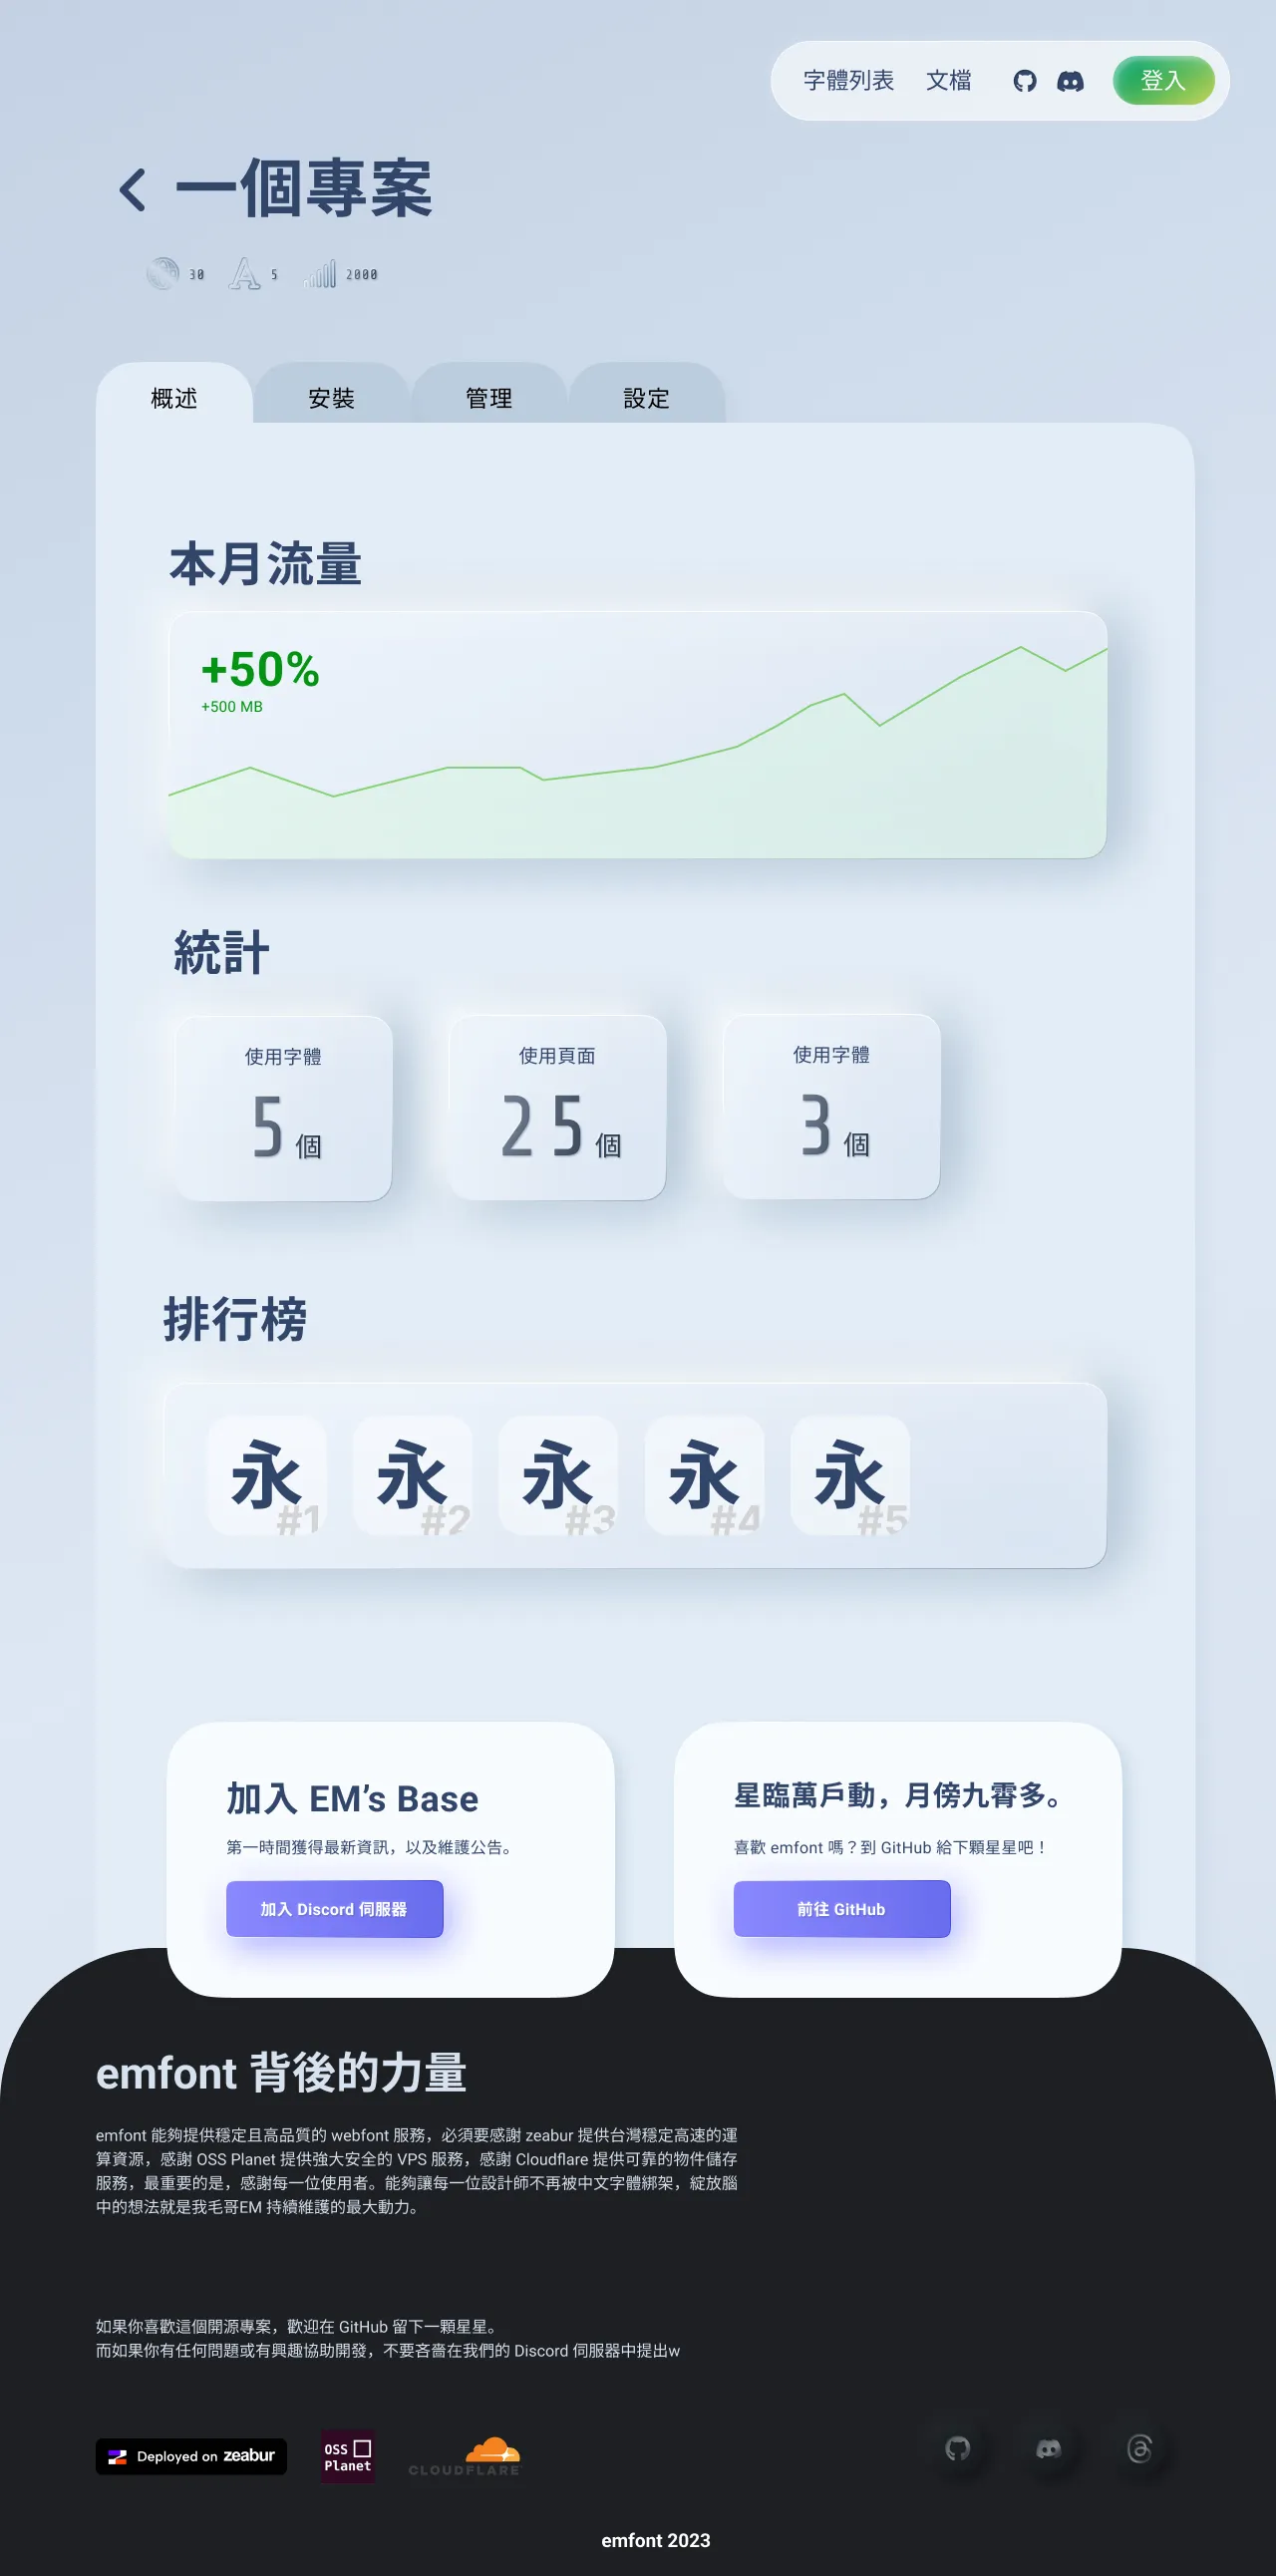
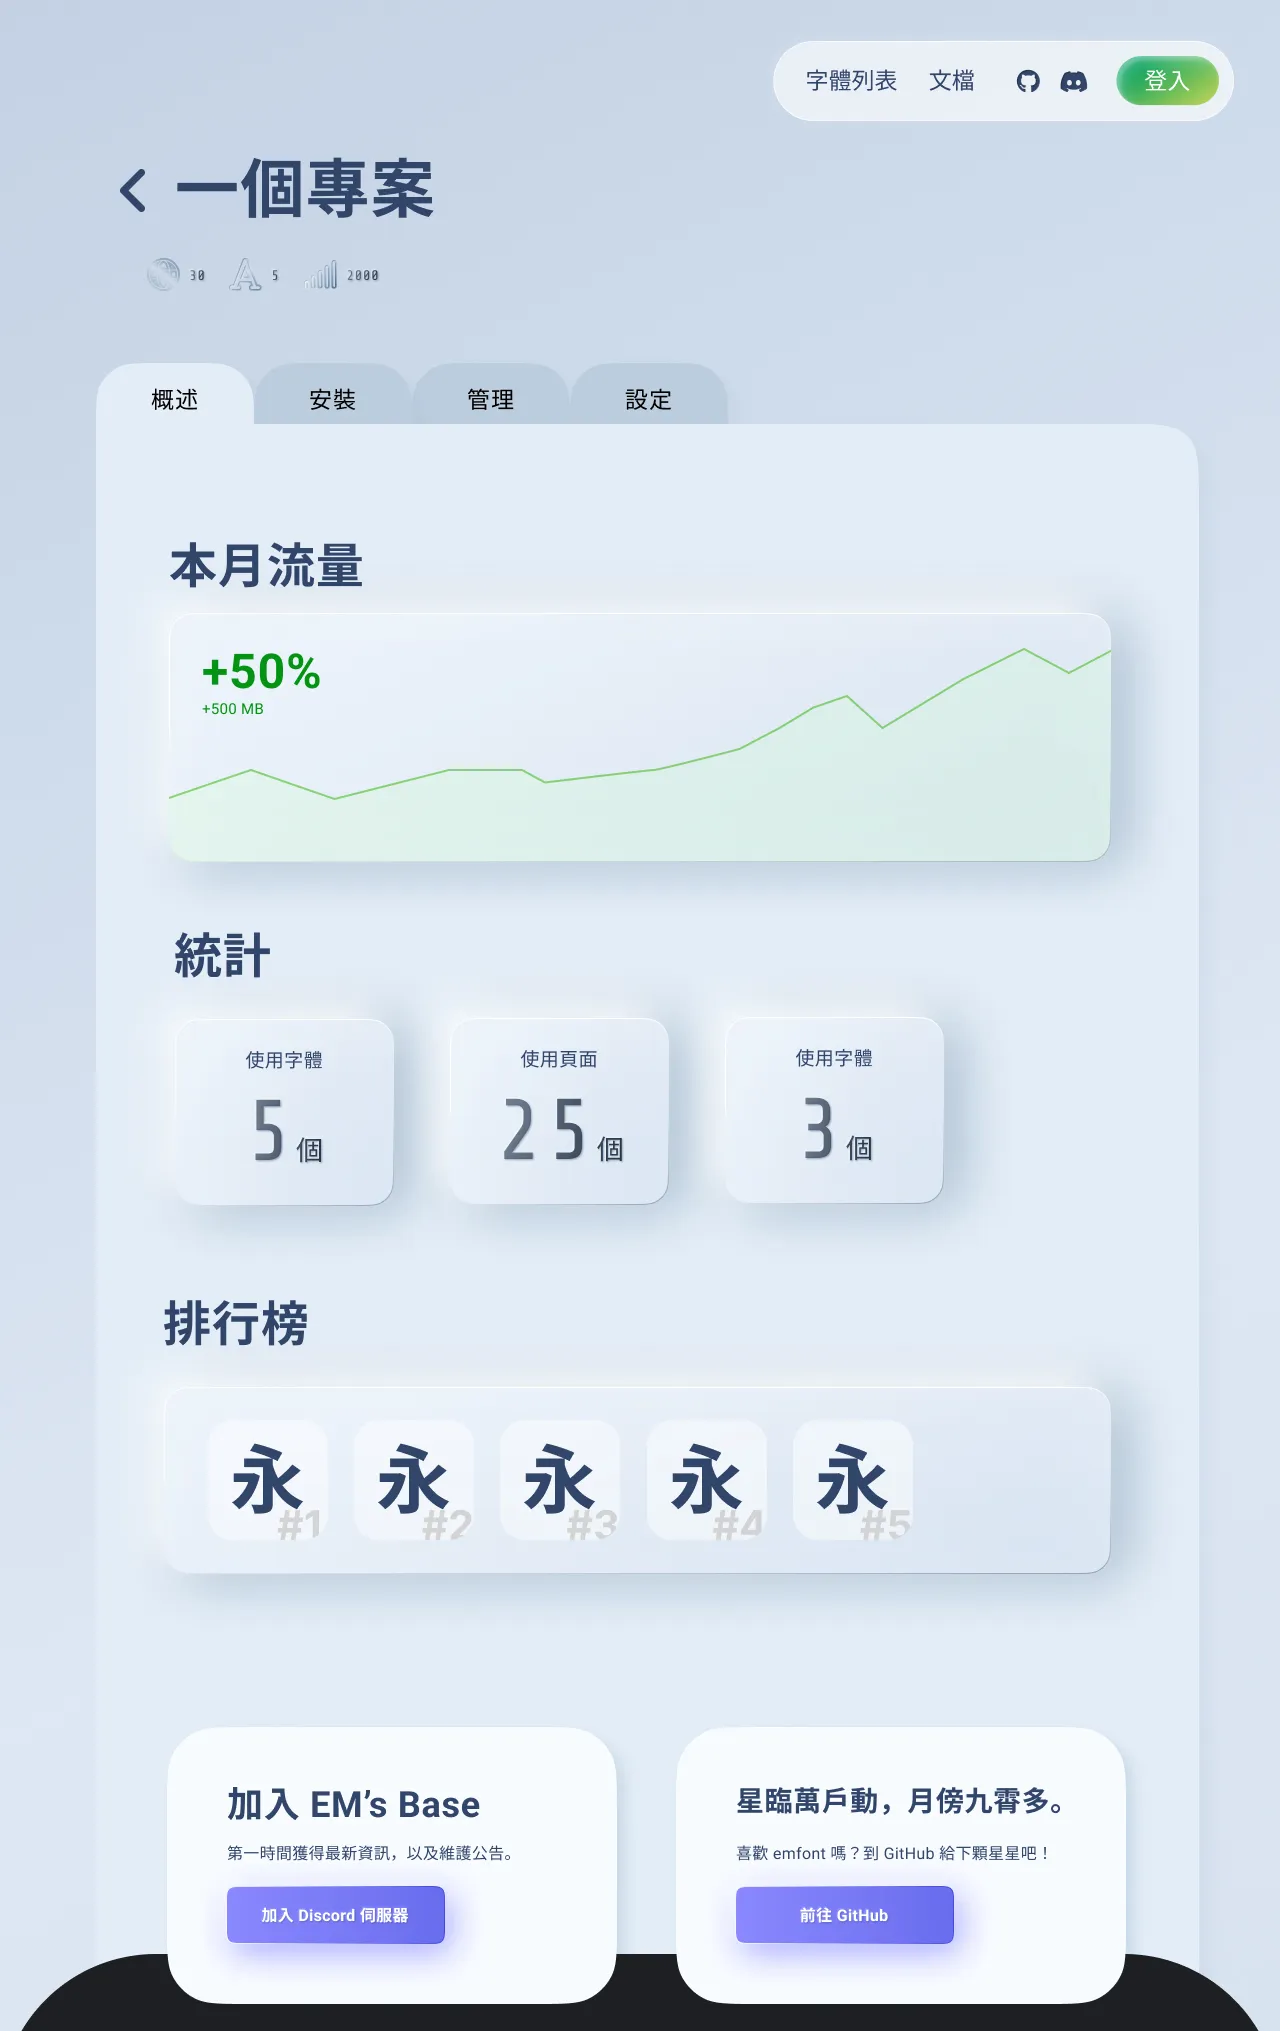
移除登入頁面

diff --git a/src/app.js b/src/app.js
@@ -5,9 +5,9 @@ import fastifyView from "@fastify/view";
 import ejs from "ejs";
 import fastifyCookie from "@fastify/cookie";
 import fastifyJwt from "@fastify/jwt";
-import axios from "axios";
+//import axios from "axios";
 import { db } from "./database.js";
-import { users } from "./schema.js";
+//import { users } from "./schema.js";
 import { genFont } from "./gen_font.js";
 import "dotenv/config";
 import { fileURLToPath } from "url";
@@ -27,20 +27,28 @@ app.register(import("@fastify/static"), {
     prefix: "/static/",
 });
 
-// Home route
+// Pages routes
 app.get("/", async (req, reply) => {
-    let user = null;
-    try {
-        const token = req.cookies.token;
-        if (token) {
-            user = await req.jwtVerify();
-        }
-    } catch (err) {
-        console.error("JWT verification failed:", err);
-    }
+    // let user = null;
+    // try {
+    //     const token = req.cookies.token;
+    //     if (token) {
+    //         user = await req.jwtVerify();
+    //     }
+    // } catch (err) {
+    //     console.error("JWT verification failed:", err);
+    // }
 
     return reply.view("/src/views/pages/home.ejs", { user }); // 確保 return
 });
+
+app.get("/fonts", async (req, reply) => {
+    return reply.view("/src/views/pages/fonts.ejs", { user });
+});
+
+
+
+
 app.post("/g/:font", async (req, res) => {
     //根據前端需要的字集，產生字型檔
     try {
@@ -66,52 +74,52 @@ app.get('/testq', async (request, reply) => {
     }
   });
 // GitHub OAuth login redirect
-app.get("/login", async (req, reply) => {
-    const githubAuthUrl = `https://github.com/login/oauth/authorize?client_id=${process.env.GITHUB_CLIENT_ID}&scope=user`;
-    reply.redirect(githubAuthUrl);
-});
+// app.get("/login", async (req, reply) => {
+//     const githubAuthUrl = `https://github.com/login/oauth/authorize?client_id=${process.env.GITHUB_CLIENT_ID}&scope=user`;
+//     reply.redirect(githubAuthUrl);
+// });
 
 // GitHub OAuth callback
-app.get("/callback", async (req, reply) => {
-    const { code } = req.query;
-    if (!code) return reply.send("No code provided");
+// app.get("/callback", async (req, reply) => {
+//     const { code } = req.query;
+//     if (!code) return reply.send("No code provided");
 
-    try {
-        const tokenRes = await axios.post(
-            "https://github.com/login/oauth/access_token",
-            {
-                client_id: process.env.GITHUB_CLIENT_ID,
-                client_secret: process.env.GITHUB_CLIENT_SECRET,
-                code,
-            },
-            { headers: { Accept: "application/json" } }
-        );
-        const accessToken = tokenRes.data.access_token;
-        if (!accessToken) return reply.send("Failed to get access token");
+//     try {
+//         const tokenRes = await axios.post(
+//             "https://github.com/login/oauth/access_token",
+//             {
+//                 client_id: process.env.GITHUB_CLIENT_ID,
+//                 client_secret: process.env.GITHUB_CLIENT_SECRET,
+//                 code,
+//             },
+//             { headers: { Accept: "application/json" } }
+//         );
+//         const accessToken = tokenRes.data.access_token;
+//         if (!accessToken) return reply.send("Failed to get access token");
 
-        const userRes = await axios.get("https://api.github.com/user", {
-            headers: { Authorization: `Bearer ${accessToken}` },
-        });
-        const { login, avatar_url } = userRes.data;
-        await db
-            .insert(users)
-            .values({ username: login, avatar: avatar_url })
-            .onConflictDoNothing();
-        console.log("Login success:", login);
-        const token = app.jwt.sign({ username: login, avatar: avatar_url });
+//         const userRes = await axios.get("https://api.github.com/user", {
+//             headers: { Authorization: `Bearer ${accessToken}` },
+//         });
+//         const { login, avatar_url } = userRes.data;
+//         await db
+//             .insert(users)
+//             .values({ username: login, avatar: avatar_url })
+//             .onConflictDoNothing();
+//         console.log("Login success:", login);
+//         const token = app.jwt.sign({ username: login, avatar: avatar_url });
 
-        reply.setCookie("token", token, { httpOnly: true, path: "/" });
-        reply.redirect("/");
-    } catch (err) {
-        reply.send("Login failed");
-    }
-});
+//         reply.setCookie("token", token, { httpOnly: true, path: "/" });
+//         reply.redirect("/");
+//     } catch (err) {
+//         reply.send("Login failed");
+//     }
+// });
 
-// Logout
-app.get("/logout", (req, reply) => {
-    reply.clearCookie("token");
-    reply.redirect("/");
-});
+// // Logout
+// app.get("/logout", (req, reply) => {
+//     reply.clearCookie("token");
+//     reply.redirect("/");
+// });
 
 // Start server
 const start = async () => {

diff --git a/src/front.js b/src/front.js
@@ -1,0 +1,47 @@
+import Fastify from "fastify";
+import fastifyView from "@fastify/view";
+import ejs from "ejs";
+import fs from "fs";
+import { fileURLToPath } from "url";
+import path from "path";
+
+const __filename = fileURLToPath(import.meta.url);
+const __dirname = path.dirname(__filename);
+
+const app = Fastify({ logger: true });
+
+// Register view engine
+app.register(fastifyView, { engine: { ejs: ejs } });
+
+// Register static file serving
+app.register(import("@fastify/static"), {
+    root: path.join(__dirname, "static"),
+    prefix: "/static/", 
+});
+
+// Dynamic view route
+app.get("/:view", async (req, reply) => {
+    let { view } = req.params;
+    try {
+        if (!view || view === "") view = "home";
+        if (fs.existsSync(path.join(__dirname, "views", "pages", `${view}.ejs`)))
+            return reply.view(`/src/views/pages/${view}.ejs`);
+    } catch (err) {
+        console.log(err);
+        // if can't find view, return 404
+        return reply.status(404).view("/src/views/pages/404.ejs");
+    }
+});
+
+// Start server
+const start = async () => {
+    try {
+        await app.listen({ port: 3000 });
+        console.log("Server running at http://localhost:3000");
+    } catch (err) {
+        app.log.error(err);
+        process.exit(1);
+    }
+};
+
+start();

diff --git a/src/static/css/home.css b/src/static/css/home.css
@@ -146,9 +146,9 @@ section {
     backdrop-filter: blur(4em);
     max-width: var(--max-width);
     margin: 0 auto 7rem;
-    padding: 6rem;
+    padding: min(6rem, 10vw);
     text-align: center;
-    font-size: 1.5rem;
+    font-size: clamp(1.2rem, 1.5vw, 1.5rem);
 }
 #intro p {
     max-width: 50rem;
@@ -319,7 +319,7 @@ section h2 {
 
 #usage p,
 #youRule p {
-    font-size: min(1.875rem, 4.5vw);
+    font-size: 1.2rem;
     font-weight: 700;
     color: #3c5068;
 }

diff --git a/src/static/css/main.css b/src/static/css/main.css
@@ -825,6 +825,7 @@ input:checked + .checkbox > div:last-child::after {
     }
     #nav:checked ~ .nav-right.logged {
         height: 24rem;
+        height: 15.7rem;
     }
     .nav-right a img {
         height: 1rem;

diff --git a/README.md b/README.md
@@ -5,9 +5,9 @@
 
 免費中文 webfont 服務。
 
-[![Discord](https://img.shields.io/badge/-Discord-7289DA?style=flat-square&logo=Discord&logoColor=white)](https://discord.gg/W8r9x4PwUE) [![Telegram](https://img.shields.io/badge/-Telegram-169BD7?style=flat-square&logo=Telegram&logoColor=white)](https://t.me/emfont) 
+[![Discord](https://img.shields.io/badge/-Discord-7289DA?style=flat-square&logo=Discord&logoColor=white)](https://dc.elvismao.com) [![Telegram](https://img.shields.io/badge/-Telegram-169BD7?style=flat-square&logo=Telegram&logoColor=white)](https://t.me/emfont) 
 
-![og](og.webp)
+![og](/src/static/img/og.webp)
 
 </div>
 